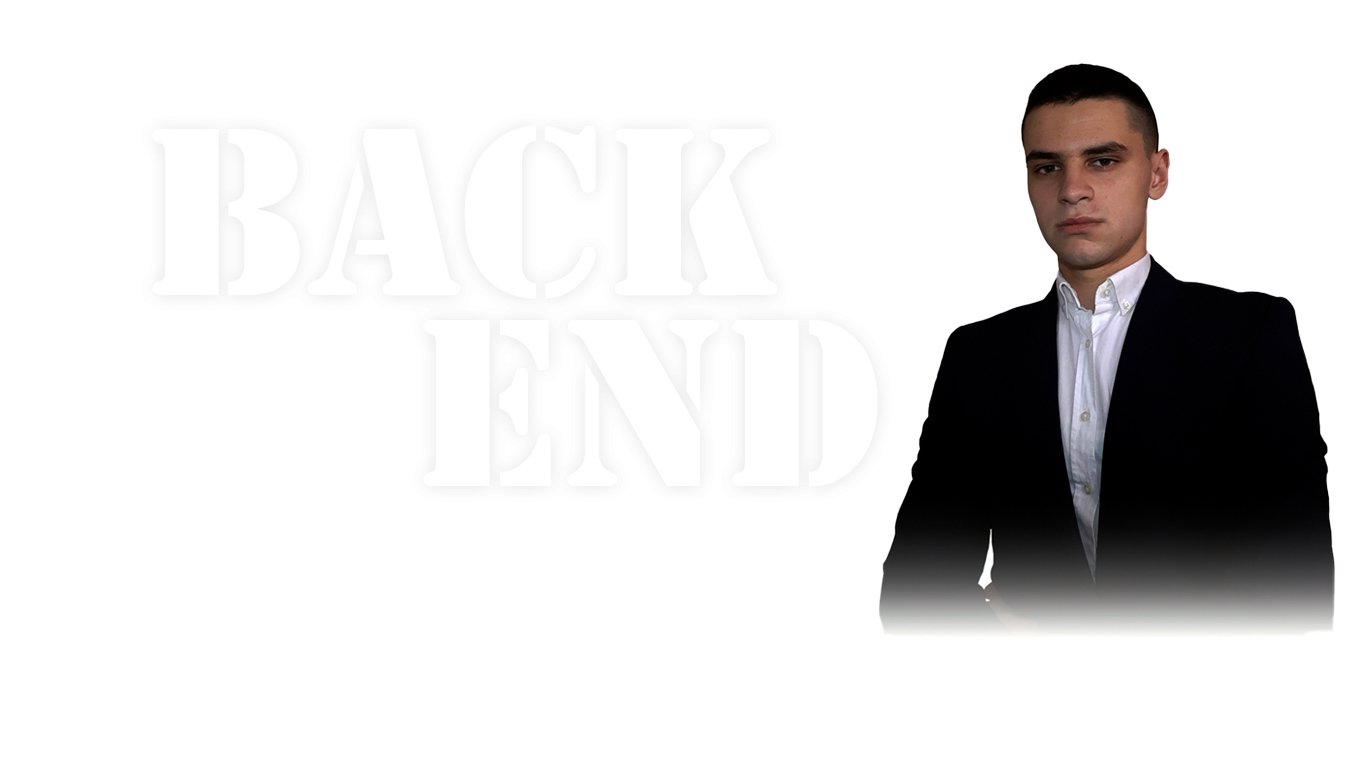
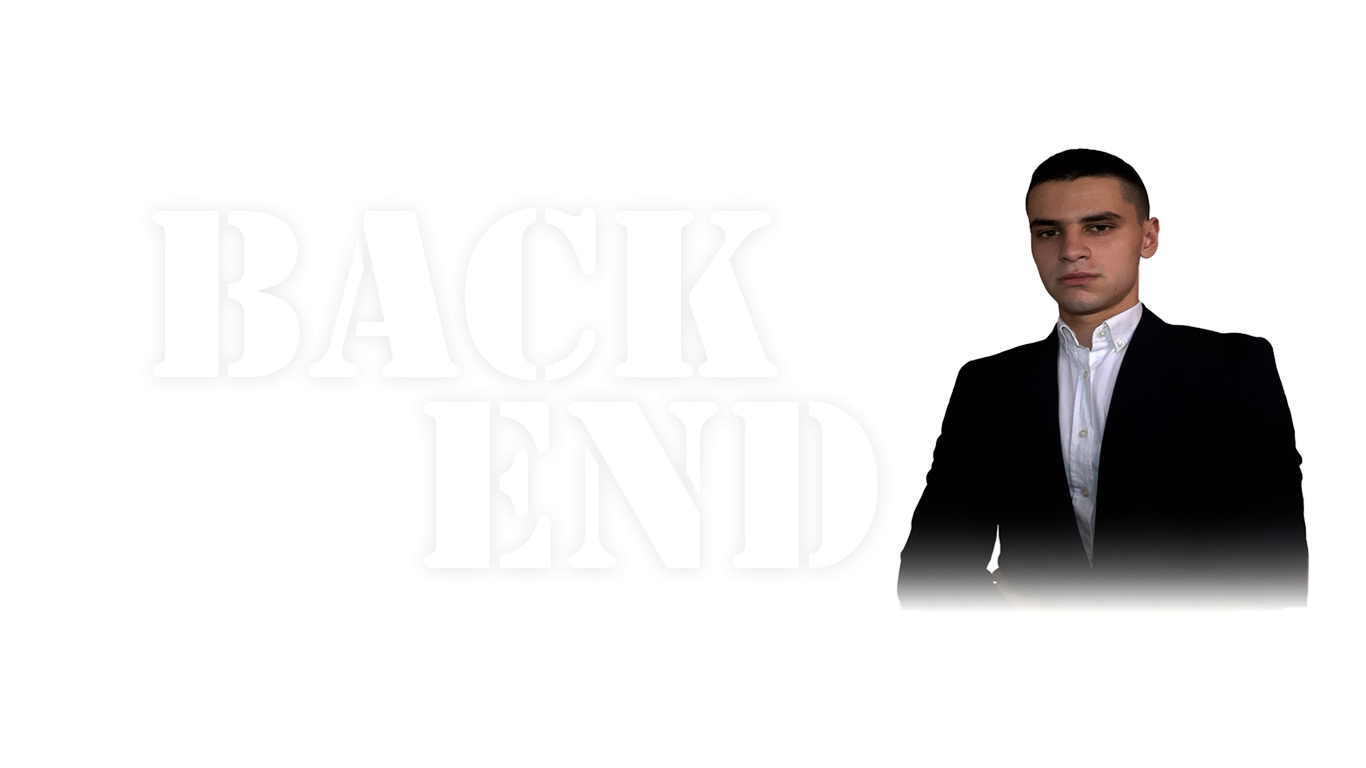
Add files via upload

Changed region(s): [[0.6457, 0.0625, 0.9839, 0.8438]]

diff --git a/style.css b/style.css
@@ -4,8 +4,8 @@
     background-image: url('image-landing.jpg');
     background-position: center !important;
     background-repeat: no-repeat !important;
-    background-size: 70% !important;
-    background-attachment: fixed !important;
+    background-size: cover !important;
+    
 }
 .landing-text{
     margin-top: 30% !important;
